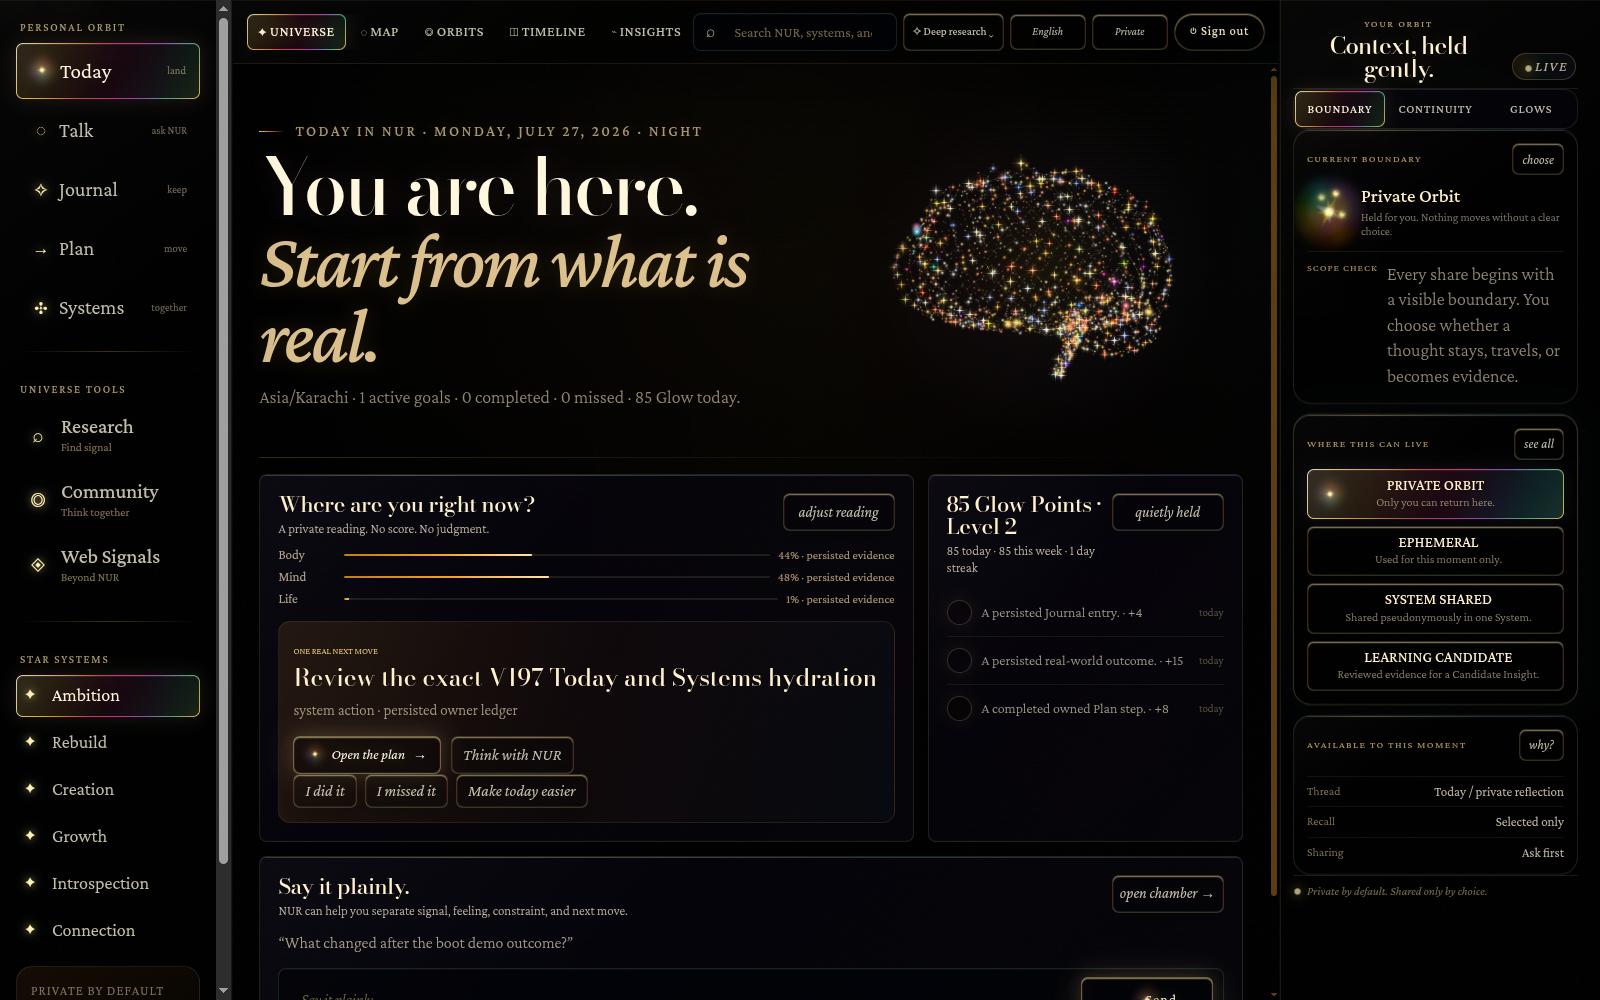
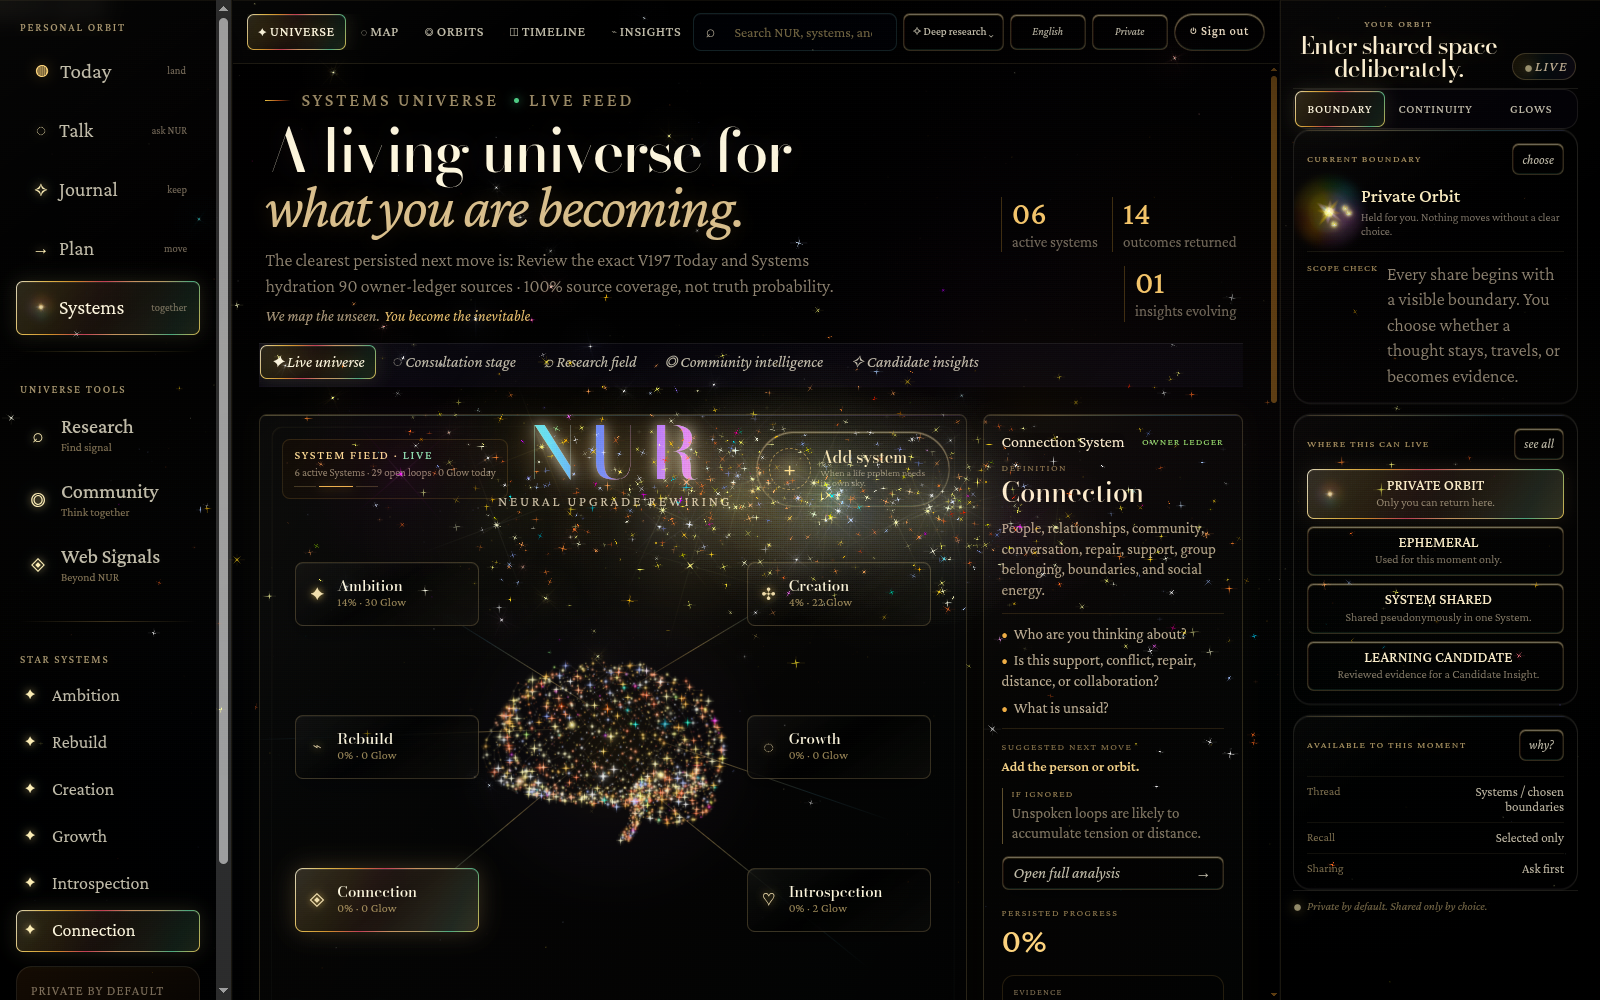
fix(v197): take the cool colours out of the star brain palette
The blue cast around the brain came from its own stars. Each point's halo is
rasterised into a sprite filled with that point's colour at .46 alpha, so a blue
star paints a blue halo, and with roughly an eighth of ~2,000 points drawn blue
the halos overlap into a wash around the whole cloud.

Three of the eight prism entries were cool: cyan [99,224,255], blue
[121,151,255] and violet [194,138,255]. Replaced with warm and mint values, so
the cloud still reads as many-coloured without the cool cast. The warm entries,
the four-point geometry, the sprite cache and the point count are untouched.

Verified in the running interface: the brain reads gold and amber with no blue
halo, on the same black the entry uses.

Runtime hash re-pinned in all three places. web unit 65/65.

diff --git a/apps/web/src/bridge/v43StarBrainRuntime.js b/apps/web/src/bridge/v43StarBrainRuntime.js
@@ -29,7 +29,13 @@
     {t:'M',w:.3},{t:'K',w:.2},{t:'G',w:.16},{t:'F',w:.12},
     {t:'A',w:.1},{t:'B',w:.08},{t:'O',w:.04}
   ];
-  const PRISM=[[255,108,128],[255,158,74],[255,222,92],[126,237,130],[99,224,255],[121,151,255],[194,138,255],[255,142,211]];
+  /* The three cool entries — cyan [99,224,255], blue [121,151,255] and violet
+     [194,138,255] — are gone. Each star's halo sprite is filled with that star's
+     own colour at .46 alpha, so a blue star painted a blue halo, and enough of
+     them together put a blue cast around the whole brain. Replaced with warm
+     and mint values so the cloud still reads as many-coloured without the cool
+     wash. */
+  const PRISM=[[255,108,128],[255,178,116],[255,222,92],[126,237,130],[142,236,196],[255,206,150],[255,232,196],[255,142,211]];
   const rnd=(a,b)=>a+Math.random()*(b-a);
   const pick=a=>a[(Math.random()*a.length)|0];
   function galaxyColor(){

diff --git a/apps/web/src/v197/v43-star-brain-source.test.ts b/apps/web/src/v197/v43-star-brain-source.test.ts
@@ -11,7 +11,7 @@ const bridge = readFileSync(bridgePath, "utf8");
 describe("V43-derived NUR star-brain source", () => {
   it("keeps the supplied V43 anatomy and adds the approved sparkle/stem extension", () => {
     expect(createHash("sha256").update(runtime).digest("hex"))
[2 lines of base64/hex data omitted]
     expect(runtime).toContain("canvas.id = 'nur-brain-canvas';");
     expect(runtime).toContain("const N_CORTEX = MOBILE ? 740 : 1112;");
     expect(runtime).toContain("const N_CEREB  = MOBILE ? 154 : 225;");

diff --git a/apps/web/src/bridge/v197StarBrain.ts b/apps/web/src/bridge/v197StarBrain.ts
@@ -4,7 +4,7 @@ import { ensureV197AccessibleViewport } from "./v197Accessibility";
 export const V197_STAR_BRAIN_CANVAS_ID = "nur-brain-canvas";
 export const V197_STAR_BRAIN_HOST_ID = "front-nur-star";
 const V197_STAR_BRAIN_SCRIPT_ID = "nur-v43-exact-star-brain-runtime";
[2 lines of base64/hex data omitted]
 
 type V197StarBrainSurface = "entry" | "today" | "universe" | "map";
 

diff --git a/apps/web/src/v197/phase1-host.test.ts b/apps/web/src/v197/phase1-host.test.ts
@@ -16,7 +16,7 @@ describe("V197 cleaned canonical host", () => {
     expect(hash("docs/reference/universe_decoded_v197.html"))
[1 lines of base64/hex data omitted]
     expect(hash("apps/web/src/bridge/v43StarBrainRuntime.js"))
[2 lines of base64/hex data omitted]
   });
 
   it("physically removes obsolete visual patch and legacy star runtimes", () => {
